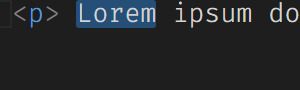
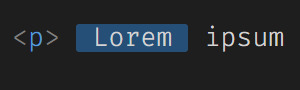
Adjust the rounded selection and scroll beyond images
- Rounded selection: add space above, and select the word with a space on
  each side, like the original.
- Scroll beyond last column / line: align the timing within each pair.

diff --git a/.claude/skills/capture-help-images/SKILL.md b/.claude/skills/capture-help-images/SKILL.md
@@ -194,6 +194,7 @@ spec の主な項目（全項目は `lib/capture.mjs` の冒頭）:
   - `quickSuggestions: false`、`suggestOnTriggerCharacters: false`: `multi-cursor-modifier.gif`
   - `minimap: { enabled: false }`: `scrollbar/scroll-by-page.gif`
   - マウスカーソルを描かず、マウスのアイコンだけを描く: `scrollbar/always-consume-mouse-wheel_1.gif`・`_2.gif`
+- **余白（ルール1）:** `rounded-selection_1.jpg`・`_2.jpg` は、元画像と同じく1行目を空行にして上に余白を入れ、2行目の「` Lorem `」を左右の半角スペースごと選択する（コードは `<p>  Lorem  ipsum dolor sit amet</p>`）。選択範囲の角の形が見えるようにするため。行のハイライトは消す（`renderLineHighlight: 'none'`）。
 - **配置（ルール1）:**
   - `minimap/show-slider_1.jpg`: `_2.gif` と同じく、プレビューの初期コードを6回繰り返し、エディタの右端から300pxと右のページ（`#f0f0f1`）20pxを320×280で切り抜く。
   - `scrollbar/horizontal_2.jpg`・`_3.jpg`: `_1.gif` と同じく、高さ199pxのエディタの下に白いページ（`#fff`）41pxを入れ、コード領域の左端から256×240で切り抜く。
@@ -217,6 +218,8 @@ spec の主な項目（全項目は `lib/capture.mjs` の冒頭）:
 - `match-brackets_1.gif`〜`_3.gif`（4.8秒）: キャレットをタグの内側 → `<` の直後 → `<` の直前 → `<` の直後 → 内側の順に動かし、always・never・near の違いを見せる。
 - `multi-cursor-paste_1.gif`・`_2.gif`（7秒）
 - `quick-suggestions-delay_1.gif`・`_2.gif`（6秒）: 入力の時刻をそろえ、候補が表示されるまでの時間の違いを見せる。
+- `scroll-beyond-last-column_1.gif`・`_2.gif`（6.3秒）: スクロールバーのスライダーを同じ距離（120px）だけ左にドラッグして戻す。
+- `scroll-beyond-last-line_1.gif`・`_2.gif`（5.5秒）: ホイールを2ノッチずつ5回下に、5回上に回す。
 
 ### 撮影対象外
 
